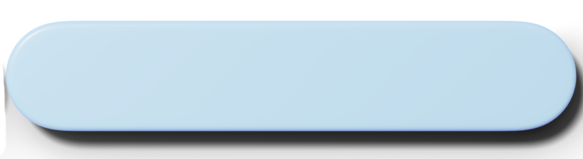
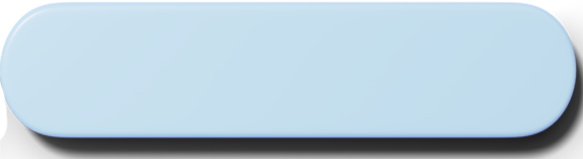
Melhorias visuais

Changed region(s): [[0.0309, 0.6792, 1.0, 1.0], [0.0, 0.0, 1.0, 0.7296], [0.9571, 0.5283, 0.988, 0.6038]]

diff --git a/lib/homeApp.dart b/lib/homeApp.dart
@@ -303,42 +303,8 @@ class _homeAppState extends State<homeApp>{
                                                           children: [
                                                             Container(
                                                               padding: const EdgeInsets.all(10),
-                                                              child: Stack(
+                                                              child: Row(
                                                                 children: [
-                                                                  TextField(
-                                                                    cursorColor: Colors.black,
-                                                                    keyboardType: TextInputType.name,
-                                                                    enableSuggestions: true,
-                                                                    autocorrect: true,
-                                                                    onChanged: (value){
-                                                                      pesquisa = value.toUpperCase();
-
-                                                                      if(value == ""){
-                                                                        setStater((){
-                                                                          pesquisa = value;
-                                                                          pesquisando = false;
-                                                                          pesquisaNumeros = false;
-                                                                        });
-                                                                      }
-                                                                    },
-                                                                    decoration: const InputDecoration(
-                                                                      filled: true,
-                                                                      fillColor: Colors.white,
-                                                                      border: OutlineInputBorder(),
-                                                                      enabledBorder: OutlineInputBorder(
-                                                                        borderSide: BorderSide(width: 3, color: Colors.white), //<-- SEE HERE
-                                                                      ),
-                                                                      focusedBorder: OutlineInputBorder(
-                                                                        borderSide: BorderSide(
-                                                                            width: 3,
-                                                                            color: Colors.black
-                                                                        ),
-                                                                      ),
-                                                                    ),
-                                                                    style: const TextStyle(
-                                                                        color: Colors.black
-                                                                    ),
-                                                                  ),
                                                                   Container(
                                                                     alignment: AlignmentDirectional.centerEnd,
                                                                     child: TextButton(
@@ -371,7 +337,52 @@ class _homeAppState extends State<homeApp>{
                                                                           scale: 14
                                                                       ),
                                                                     ),
-                                                                  )
+                                                                  ),
+                                                                  Container(
+                                                                    width: heig / 2.9,
+                                                                    //height: constrain.maxHeight / 1.5,
+                                                                    child: Stack(
+                                                                        children: [
+                                                                          Positioned.fill(
+                                                                            child: Image.asset(
+                                                                              'assets/barradePesquisa.png', // Caminho da imagem
+                                                                              fit: BoxFit.fill,
+                                                                            ),
+                                                                          ),
+                                                                          Container(
+                                                                            padding: EdgeInsets.only(left: 16),
+                                                                            child: TextField(
+                                                                              cursorColor: Colors.black,
+                                                                              keyboardType: TextInputType.name,
+                                                                              enableSuggestions: true,
+                                                                              autocorrect: true,
+                                                                              onChanged: (value){
+                                                                                pesquisa = value.toUpperCase();
+                                                                            
+                                                                                if(value == ""){
+                                                                                  setStater((){
+                                                                                    pesquisa = value;
+                                                                                    pesquisando = false;
+                                                                                    pesquisaNumeros = false;
+                                                                                  });
+                                                                                }
+                                                                              },
+                                                                              decoration: const InputDecoration(
+                                                                                focusedBorder: OutlineInputBorder(
+                                                                                  borderSide: BorderSide(
+                                                                                      width: 3,
+                                                                                      color: Colors.black
+                                                                                  ),
+                                                                                ),
+                                                                              ),
+                                                                              style: const TextStyle(
+                                                                                  color: Colors.black
+                                                                              ),
+                                                                            ),
+                                                                          ),
+                                                                        ],
+                                                                    )
+                                                                  ),
                                                                 ],
                                                               ),
                                                             ),
@@ -12165,7 +12176,7 @@ class _homeAppState extends State<homeApp>{
                                                               });
                                                             }
                                                           },
-                                                          child: Row(
+                                                          child: showSearchBar == false ? Row(
                                                             children: [
                                                               Container(
                                                                 alignment: Alignment.centerRight,
@@ -12176,17 +12187,14 @@ class _homeAppState extends State<homeApp>{
                                                                     )
                                                                 ),
                                                               ),
-                                                              Positioned.fill(
-                                                                //aqui!!!!!!
-                                                                child: Image.asset(
-                                                                  width: constrain.maxWidth - 150,
-                                                                  //height: constrain.maxHeight / 1.5,
-                                                                  'assets/barradePesquisa.png', // Caminho da imagem
-                                                                  fit: BoxFit.fill,
-                                                                ),
+                                                              Image.asset(
+                                                                width: constrain.maxWidth - 150,
+                                                                //height: constrain.maxHeight / 1.5,
+                                                                'assets/barradePesquisa.png', // Caminho da imagem
+                                                                fit: BoxFit.fill,
                                                               ),
                                                             ],
-                                                          ),
+                                                          ) : Container(),
                                                         ),
                                                       ),
                                                       showSearchBar == true ? SingleChildScrollView(
